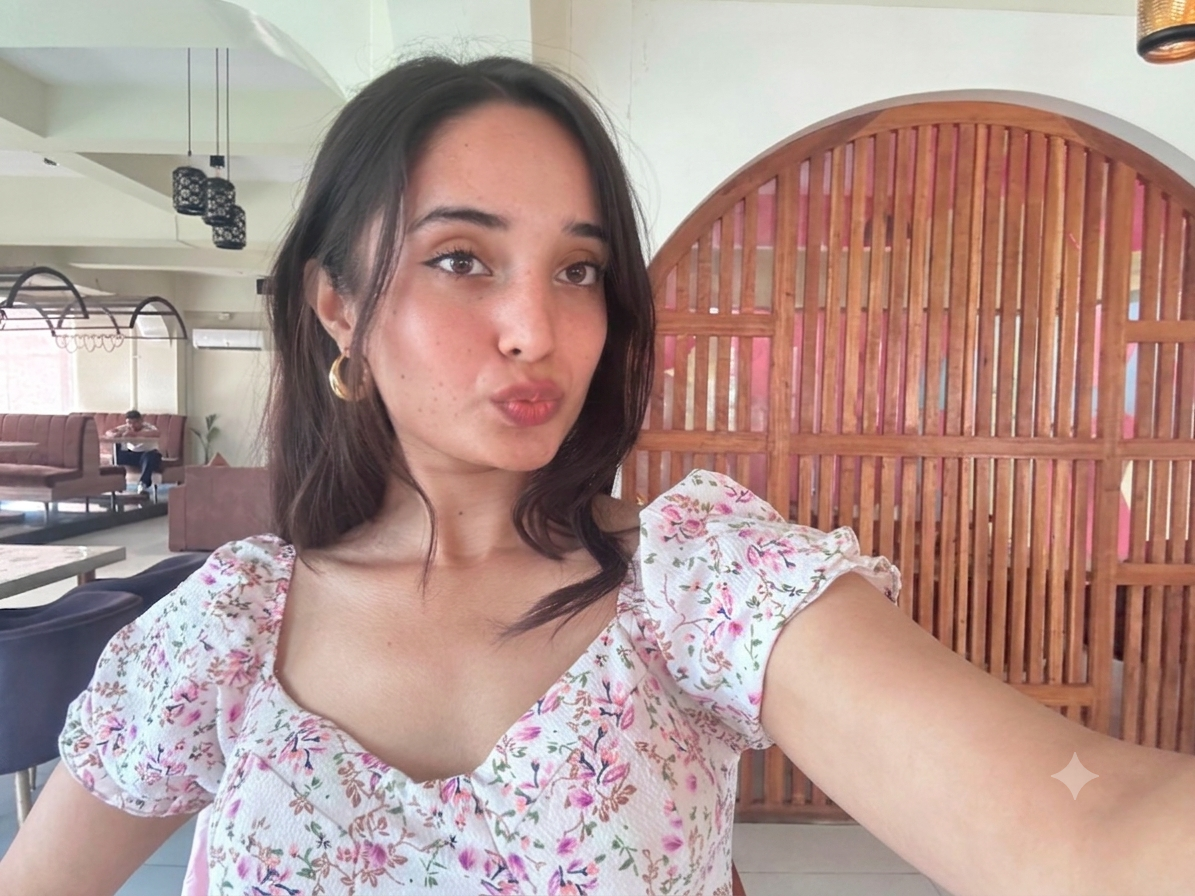
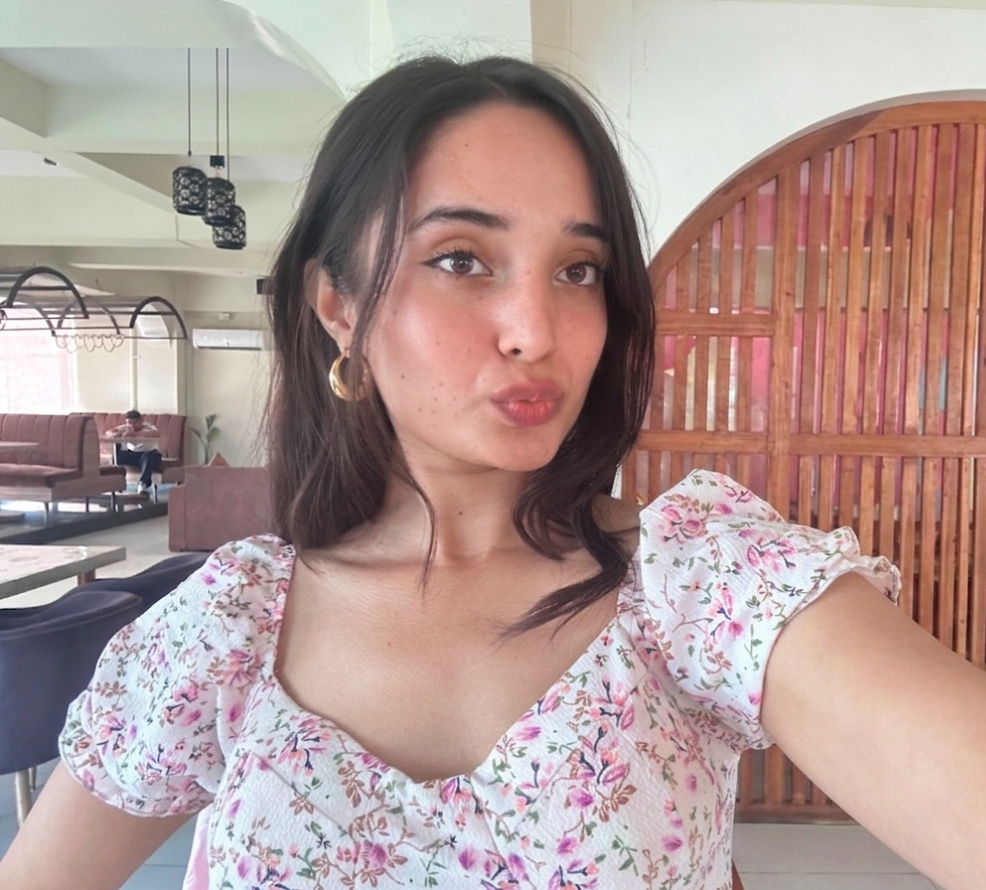
fix: added profile details, circled profile and changed navs

diff --git a/src/components/Profile.js b/src/components/Profile.js
@@ -1,0 +1,102 @@
+import React from "react";
+import { Image } from 'antd';
+import { Row, Col } from "antd";
+import { SettingOutlined } from '@ant-design/icons';
+import type { MenuProps } from 'antd';
+import { Dropdown, Space } from 'antd';
+import Post from "./Post"; // assuming you already made a Post component
+import "./Profile.css";
+import { Button, Flex } from 'antd';
+ 
+function Profile() {
+  const user = 
+  { pfp: require("../assests/myphoto.jpg"),
+    username: "pra.tisthaa",   
+    user: "Pratistha Poudel",
+    postno: "posts",
+    follower: "followers",
+    following: "followings",
+    posts:[
+      {id: 1,username: "pra.tisthaa",  image: require("../assests/pi.jpg") , caption: "My first post!", likes: 10 },
+      {id: 2,username: "pra.tisthaa",  image: require("../assests/mi.jpg") ,caption: "Hello world!", likes: 5 }
+    ],
+  };
+   const items = [
+    { label: <a href="#">App and Website</a>, key: "0" },
+    { label: <a href="#">Notifications</a>, key: "1" },
+    { label: <a href="#">Setting and Privacy</a>, key: "2" },
+    { type: "divider" },
+    { label: "Logout", key: "4" },
+  ];
+  return (
+
+      <>
+        <div className="up">
+          <div className="pfpcontent">
+            <div className="profile">
+              <Image width={130} height={130}  src={user.pfp} alt="pfp" className="photopfp" />
+            </div>
+
+            <div className="pfphead">
+              <h1 className="profileHeader"> 
+                {user.username}
+                <Dropdown menu={{ items }}>
+                  <a onClick={(e) => e.preventDefault()}>
+                    <Space>
+                      <SettingOutlined />
+                    </Space>
+                  </a>
+                </Dropdown>
+              </h1>
+              <p >{user.user}</p>
+              <div style={{ display:"flex"}}>
+                <div style={{ display:"flex",alignItems: "baseline" }}>
+                  <h3 style={{ marginRight:4 }}>3</h3>
+                  <span>{user.postno}</span>
+                </div>
+                <div style={{ display:"flex" ,alignItems: "baseline" , marginLeft:15}}>
+                  <h3 style={{ marginRight:4}}>214</h3>
+                  <span>{user.follower}</span>
+                </div> 
+                <div style={{ display:"flex" ,alignItems: "baseline", marginLeft:15}}>
+                  <h3 style={{ marginRight:4}}>108</h3>
+                  <span>{user.following}</span>
+                </div>
+              </div>
+            </div>
+          </div>
+
+          <div className="btn">
+            <Flex gap="small" wrap>
+              <Button block style={{ flex: 1 }} color="default" variant="filled">
+                Edit Profile
+              </Button>
+
+              <Button block style={{ flex: 1 }} color="default" variant="filled">
+                View Archive
+              </Button>
+            </Flex>
+          </div>
+        </div>
+
+          <div className="down">
+            <Row gutter={[0, 0]}>
+              {user.posts.map((post) => (
+                <Col key={post.id} span={5}>
+                  <Post
+                    username={post.username}
+                    image={post.image} 
+                    caption={post.caption} 
+                    likes={post.likes}
+                  />
+                </Col>
+              ))}
+            </Row>
+          </div>
+    </>
+  );
+}
+
+
+export default Profile;
+

diff --git a/src/App.js b/src/App.js
@@ -1,8 +1,11 @@
-import Feed from "./components/Feed";
+import Profile from "./components/Profile";
 import './App.css';
 import 'antd/dist/reset.css';
-import { Button } from 'antd';
+import { Button, Avatar } from 'antd';
 import React from 'react';
+import { BrowserRouter as Router, Routes, Route } from "react-router-dom";
+import myphoto from "./assests/myphoto.jpg";
+
 
 import {
    HomeOutlined,
@@ -12,7 +15,8 @@ import {
   HeartOutlined,
   PlusOutlined,
   InstagramOutlined,
-  UserOutlined,
+ 
+  MenuOutlined,
  
 } from '@ant-design/icons';
 import type { MenuProps } from 'antd';
@@ -20,22 +24,27 @@ import {ConfigProvider, Layout, Menu, theme } from 'antd';
 
 const { Header, Content, Footer, Sider } = Layout;
 
-
-
-const items: MenuProps['items'] = [
-  InstagramOutlined,
-  HomeOutlined,
-  VideoCameraOutlined,
-  MessageOutlined,
-  SearchOutlined,
-  HeartOutlined,
-  PlusOutlined,
-  UserOutlined,
-].map((icon, index) => ({
+const items: MenuProps["items"] =[
+  { icon: InstagramOutlined, label: "Instagram" },
+  { icon: HomeOutlined, label: "Home" },
+  { icon: VideoCameraOutlined, label: "Reels" },
+  { icon: MessageOutlined, label: "Messages" },
+  { icon: SearchOutlined, label: "Search" },
+  { icon: HeartOutlined, label: "Notifications" },
+  { icon: PlusOutlined, label: "Create" },
+  { icon: Avatar, label: "Profile", props: { src: myphoto } },
+  { icon: MenuOutlined, label: "More" },
+].map((item, index) => ({
   key: String(index + 1),
-  icon: React.createElement(icon),
-  label: `nav ${index + 1}`,
+   icon: item.icon === Avatar
+    ? React.createElement(item.icon, { src: myphoto, style: { fontSize: "25px" } })
+    : React.createElement(item.icon, { style: { fontSize: "25px" } }),
+  
+  label: item.label,
 }));
+
+
+
 
 const App: React.FC = () => {
   const {
@@ -46,6 +55,7 @@ const App: React.FC = () => {
   return (
     
     <div className="body">
+    <Router>
     <Layout hasSider>
       <Sider className="sider">
        <div className="demo-logo-vertical" />
@@ -61,7 +71,11 @@ const App: React.FC = () => {
               borderRadius: borderRadiusLG,
             }}
           >
-            <Feed />
+             <Routes>
+                <Route path="/profile/pratistha" element={<Profile />} />
+                
+              </Routes>
+           
           </div>
         </Content>
         <Footer style={{ textAlign: 'center' }}>
@@ -71,7 +85,9 @@ const App: React.FC = () => {
        <Sider className="sider"></Sider>
         
       </Layout>
+      
     </Layout>
+    </Router>
      </div>
   );
 };

diff --git a/src/components/Profile.css b/src/components/Profile.css
@@ -1,0 +1,43 @@
+.photopfp {
+  width: 12%;
+  border-radius: 50%;
+  margin: 10px;
+}
+
+.profileHeader{
+    display: flex ;
+     align-items: center;
+     justify-content: center;
+  gap: 12px;
+}
+.pfpcontent{
+
+     display: flex ;
+     align-items: center;
+     gap: 12px;
+}
+.pfphead{
+   display: flex;
+    margin-left: 20px;
+    flex-direction: column; 
+    align-items: flex-start;
+    
+}
+
+.down {
+  margin-top: 50px; 
+  padding-top: 0; 
+}
+.btn{
+     justify-content: center;
+     width: 100%;
+     margin-top: 30px; 
+}
+.up {
+  width: 50%;          /* adjust this value */
+  margin: 0 auto;      /* center horizontally */
+        /* align items side by side */
+  align-items: center; /* vertically center */
+  justify-content: center; /* optional */
+  
+}

diff --git a/src/App.css b/src/App.css
@@ -17,9 +17,13 @@
   border-radius: 8px; 
 }
 
-.body{
-   background-color: #121212; /* dark background */
-  color: #ffffff;            /* white text */
-  margin: 0;
-  font-family: Arial, sans-serif;
+
+.ant-menu-item:nth-child(1) {
+  margin-bottom: 150px; /* extra space after Messages */
+}
+.ant-menu-item:nth-child(9) {
+  margin-top: 150px; /* extra space after Messages */
+}
+.ant-menu-item .anticon {
+  margin-right: 5px; /* space between icon and text */
 }

diff --git a/src/components/Post.js b/src/components/Post.js
@@ -5,7 +5,7 @@ function Post(props) {
   return (
     
     <div className="post">
-      <img src={props.image} alt="post" className="photo" />
+      <Image width={232} src={props.image} alt="post" className="photo" />
       <p>❤: {props.likes} </p>
       <p> <h3>{props.username}</h3> {props.caption} </p>
       
